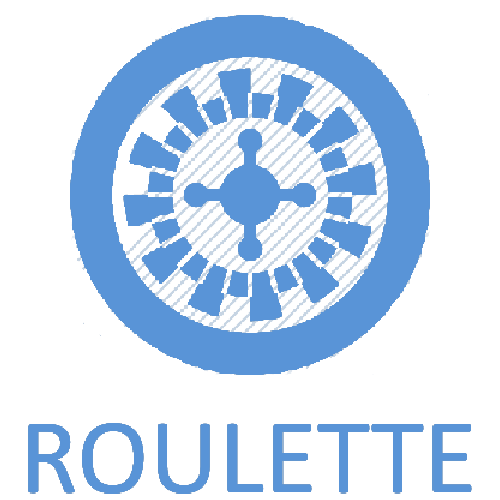
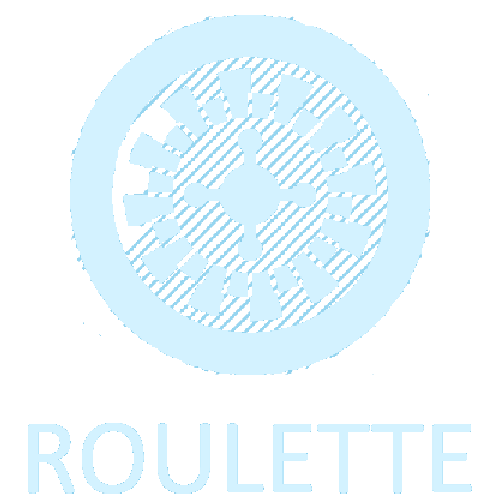
Total omdesign till hela sidan. Sommartema

diff --git a/css/homecss.css b/css/homecss.css
@@ -4,14 +4,14 @@
 }
 
 body {
-	background-color: #232c31;
+	background-color: #2a97c4;
 }
 
 #header {
 	width: 100%;
 	height: 6vw;
 	background-color: #2f3e45;
-	border-bottom: 2px solid #5994d7;
+	border-bottom: 2px solid #FFF;
 	color:#fff;
 	font-size:5vw;
 }
@@ -50,8 +50,8 @@ body {
 	float: right;
 	width: 15vw;
 	padding-left: 3vw;
-	background-color: #26343b;
-	border-left: 1px solid #5994d7;
+	background-color: #66c0e5;
+	border-left: 2px solid #FFF;
 	height: 6vw;
 }
 
@@ -65,13 +65,13 @@ body {
 	font-size: 1.75vw;
 	line-height: 3vw;
 	margin-left: 3.5vw;
-	color: #5994d7;
+	color: #FFF;
 	font-family: Calibri;
 }
 
 #currency {
 	margin-top: 0.25vw;
-	background-color: #5994d7;
+	background-color: #FFF;
 	border-radius: 3vw;
 	width: 10vw;
 	height: 1.8vw;
@@ -81,7 +81,7 @@ body {
 	font-size: 1.5vw;
 	line-height: 1.75vw;
 	margin-left: 1.5vw;
-	color: #FFF;
+	color: #66c0e5;
 }
 
 #preload {
@@ -93,7 +93,7 @@ body {
 	width: 100%;
 	height: 100%;
 
-	background-color: #353f44;
+	background-color: #66c0e5;
 	text-align: center;
 }
 
@@ -105,14 +105,14 @@ body {
 #preload p {
 	font-size: 2vw;
 	font-family: Calibri;
-	color: #ede66a;
+	color: #FFF;
 
-	margin-top: 4vw;
+	margin-top: 2vw;
 }
 
 #loader-frame {
-	width: 70px;
-	height: 70px;
+	width: 7vw;
+	height: 7vw;
 	margin: auto;
 	position: relative;
 
@@ -121,16 +121,16 @@ body {
 
 #loader {
 	position: absolute;
-	margin-top: -110px;
-	margin-left: -45px;
+	margin-top: -12vw;
+	margin-left: -3vw;
 
-	border: 8px solid transparent;
+	border: 0.8vw solid transparent;
 	border-radius: 50%;
 
-	width: 150px;
-	height: 150px;
-	border-top: 8px solid #ede66a;
- 	border-bottom: 8px solid #ede66a;
+	width: 12vw;
+	height: 12vw;
+	border-top: 0.8vw solid #FFF;
+ 	border-bottom: 0.8vw solid #FFF;
 
 	animation: clockwiseRot 2s 3;
 }
@@ -143,8 +143,8 @@ body {
 #footer {
 	width: 100%;
 	height: 7vw;
-	background-color: #2f3e45;
-	border-top: 0.2vw solid #5994d7;
+	background-color: #8bcde8;
+	border-top: 0.2vw solid #FFF;
 
 	font-size: 1.5vw;
 	font-family: Calibri, sans-serif;
@@ -161,7 +161,7 @@ body {
 }
 
 #header {
-	background-image: url("../img/testfade.png");
+	background-image: url("../img/testfade2.png");
 	background-repeat: repeat;
 	background-size: contain;
 }

diff --git a/css/roulettecss.css b/css/roulettecss.css
@@ -1,11 +1,11 @@
 #canv {
-	border: 3px solid #5994d7;
+	border: 3px solid #EEE;
 	border-radius: 25px;
 
 }
 
 #betField {
-	border: 2px solid #5994d7;
+	border: 2px solid #CCC;
 	border-radius: 10px;
 
 	display: inline-block;
@@ -18,7 +18,7 @@
 }
 
 .colorBet {
-	border: 2px solid #5994d7;
+	border: 2px solid #CCC;
 	border-radius: 10px;
 	background-color: #2f3e45;
 
@@ -58,7 +58,7 @@
 
 
 .typeBet {
-	border: 2px solid #5994d7;
+	border: 2px solid #CCC;
 	border-radius: 10px;
 	background-color: #2f3e45;
 
@@ -72,7 +72,7 @@
 }
 
 #numberBet {
-	border: 2px solid #5994d7;
+	border: 2px solid #CCC;
 	border-radius: 5px;
 	background-color: #2f3e45;
 
@@ -153,7 +153,7 @@
 } 
 
 #betRed {
-	background-color: #ff3855;
+	background-color: #ba2c2c;
 }
 
 #betBlack {
@@ -165,7 +165,7 @@
 }
 
 .numBet {
-	border: 2px solid #5994d7;
+	border: 2px solid #CCC;
 	width: 63.5px;
 	height: 62.6666666px;
 
@@ -192,7 +192,7 @@
 }
 
 .betRed {
-	background-color: #ff3855;
+	background-color: #ba2c2c;
 }
 
 .betBlack {
@@ -200,7 +200,7 @@
 }
 
 .bigButton {
-	border: 2px solid #5994d7;
+	border: 2px solid #CCC;
 	border-radius: 15px;
 
 	width: 160px;
@@ -216,4 +216,5 @@
 
 .FadeAura:hover {
 	border: 2px solid #FFF;
+	cursor: pointer;
 }

diff --git a/css/crashcss.css b/css/crashcss.css
@@ -1,5 +1,5 @@
 #canv {
-	border: 4px solid #5994d7;
+	border: 4px solid #FFF;
 	border-radius: 15px;
 	background-color: #2f3e45;
 
@@ -7,7 +7,7 @@
 }
 
 #betField {
-	border: 2px solid #5994d7;
+	border: 2px solid #FFF;
 	border-radius: 10px;
 
 	display: inline-block;
@@ -20,7 +20,7 @@
 }
 
 #betField2 {
-	border: 2px solid #5994d7;
+	border: 2px solid #FFF;
 	border-radius: 10px;
 
 	display: inline-block;
@@ -36,7 +36,7 @@
 }
 
 #betButton {
-	border: 2px solid #5994d7;
+	border: 2px solid #FFF;
 	border-radius: 15px;
 
 	width: 355px;

diff --git a/javascript/rouletteJS.js b/javascript/rouletteJS.js
@@ -1,5 +1,5 @@
 
-var redColor = "#ff3855";
+var redColor = "#ba2c2c";
 var blackColor = "#232323";
 var greenColor = "#00bb00";
 
@@ -102,7 +102,7 @@ function CreateNumBet()
 }
 
 
-function slide()
+function Slide()
 {
 	if(offset < spinLength)
 	{
@@ -170,7 +170,7 @@ function Roll()
 
 		preOffset = offset;
 		vel = 0.25;
-		spinInterval = setInterval(slide, 10);
+		spinInterval = setInterval(Slide, 10);
 	}
 }
 

diff --git a/javascript/indexJS.js b/javascript/indexJS.js
@@ -1,4 +1,4 @@
-var loadRepeats = 0;		//DEN SKA VARA 3. MAN KAN TEMPORÄRT BYTA DEN TILL (0) FÖR ATT SKIPPA ANIMATION VID UTVECKLING!
+var loadRepeats = 3;		//DEN SKA VARA 3. MAN KAN TEMPORÄRT BYTA DEN TILL (0) FÖR ATT SKIPPA ANIMATION VID UTVECKLING!
 var currentPage;
 
 

diff --git a/javascript/betfieldJS.js b/javascript/betfieldJS.js
@@ -70,6 +70,7 @@ function getCurrentBet() {
 function changeText() {
 	var textF = document.getElementById("betAmount");
 	textF.value = currentBet;
+	UpdateMax();
 }
 
 

diff --git a/index.html b/index.html
@@ -44,7 +44,7 @@
 
 
 	<div id="preload">
-		<img src="img/logotype.png">
+		<img src="img/MTCLogo.png">
 
 		<div id="loader-frame">
 			<div id="loader"></div>
